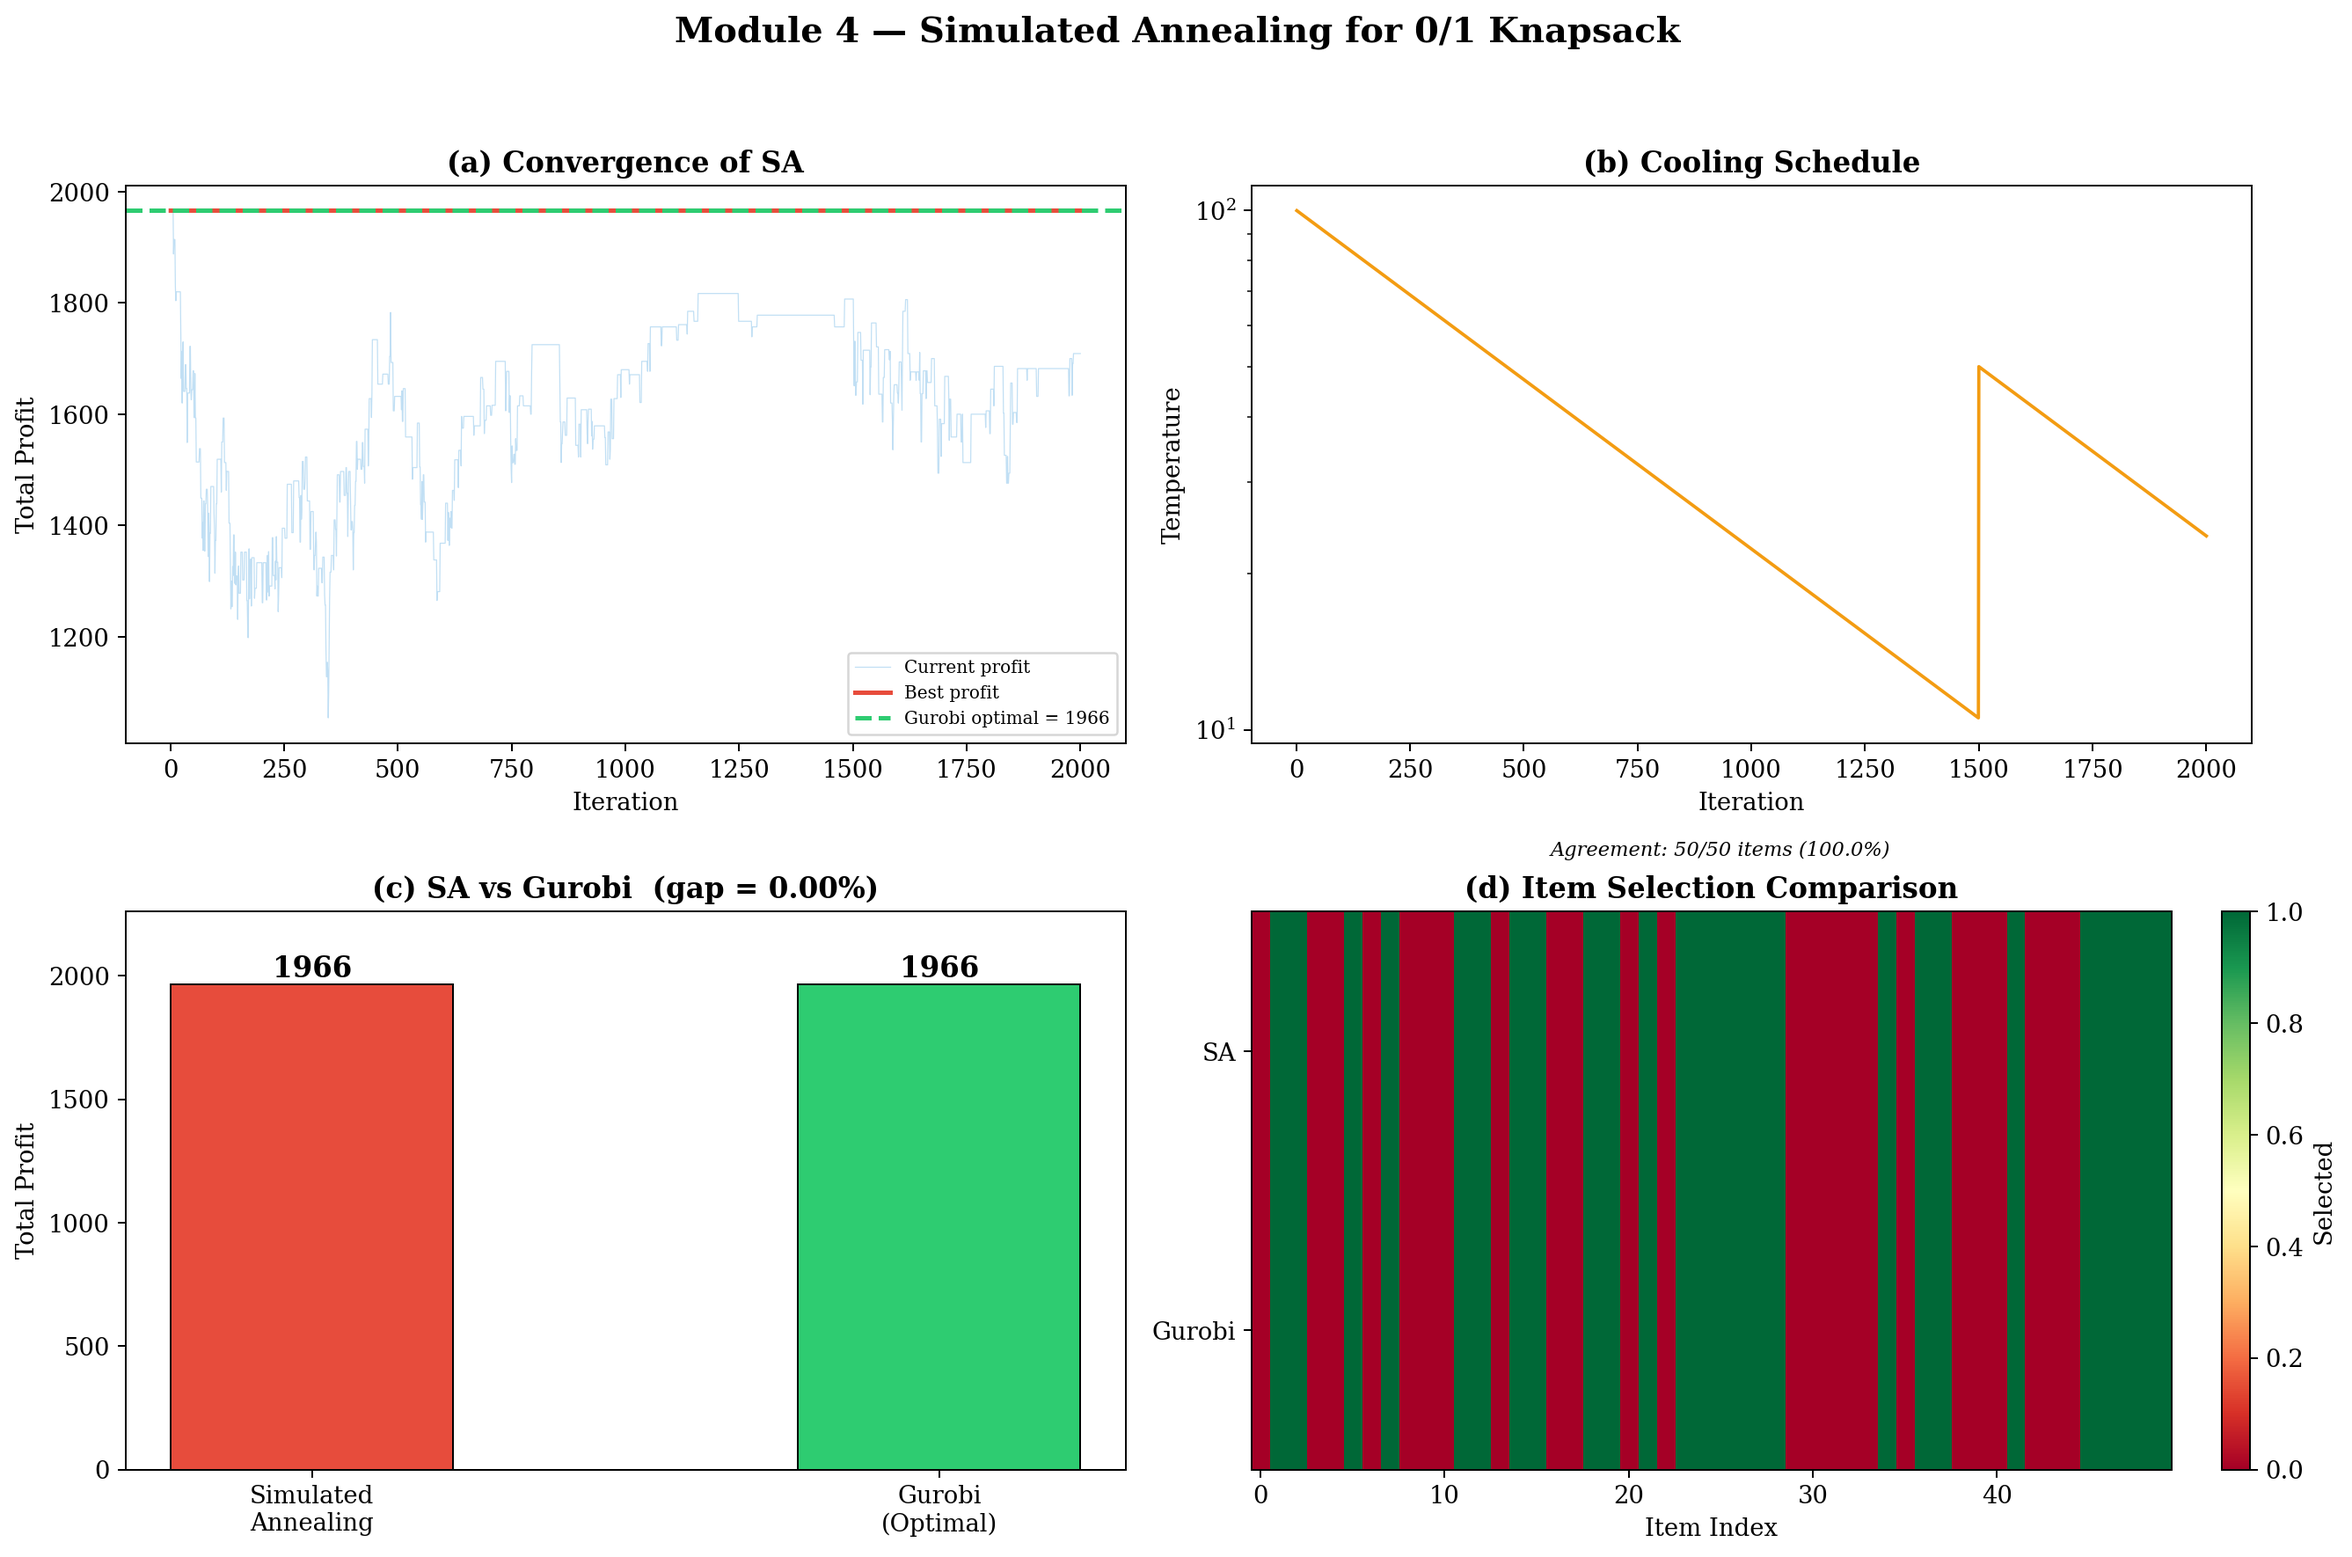
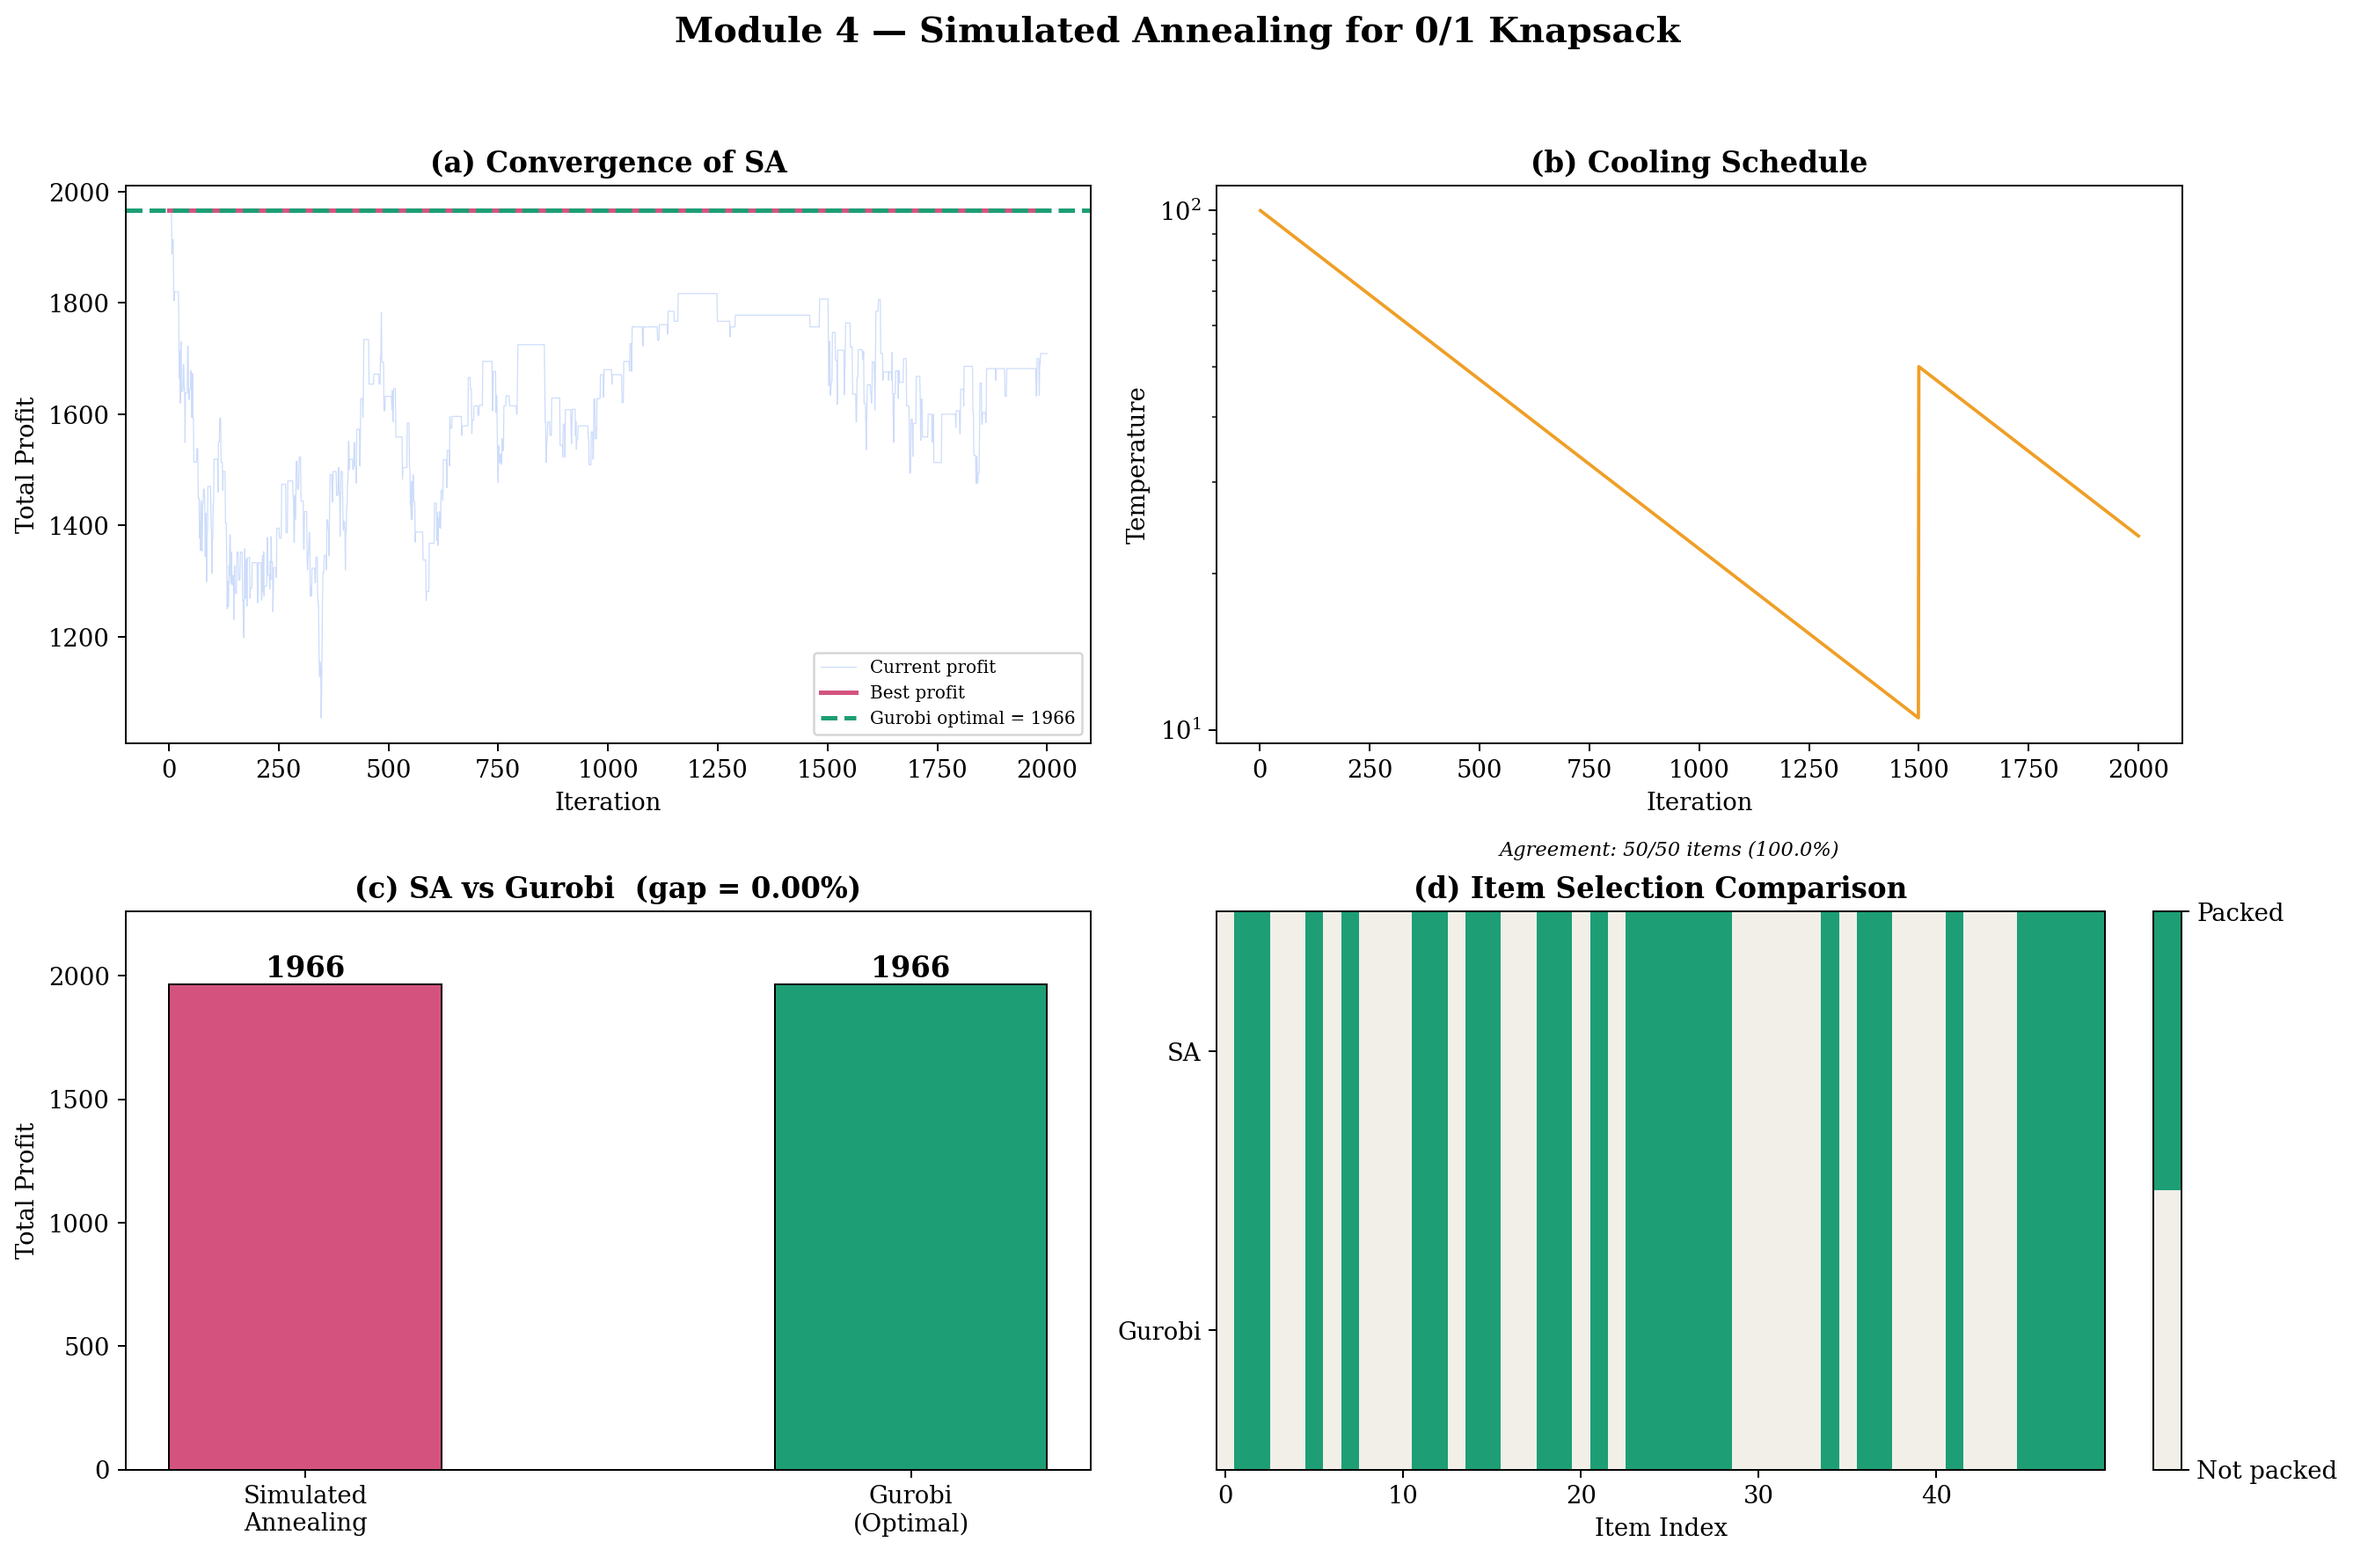
sa figure changed

diff --git a/README.md b/README.md
@@ -296,7 +296,7 @@ total value without exceeding capacity?*
 
 **Decision variables**
 
-- $x_i \in {0, 1}$: equals $1$ if item $i$ is packed, $0$ otherwise.
+- $x_i \in \{0, 1\}$: equals $1$ if item $i$ is packed, $0$ otherwise.
 
 **Model**
 
@@ -304,13 +304,13 @@ $$
 \begin{aligned}
 \max \quad & \sum_{i \in N} v_i\, x_i \\
 \text{s.t.} \quad & \sum_{i \in N} w_i\, x_i \le C \\
-& x_i \in \{0, 1\}, \quad \forall i \in N.
+& x_i \in \{0, 1\}, \quad \forall i \in \mathcal N.
 \end{aligned}
 $$
 
 This is the mixed-integer program that `src/solvers/gurobi_knapsack.py` hands to
 Gurobi. Our SA implementation works on the same decision variables, but it
-**minimises** the negated profit plus a linear penalty for capacity violation,
+**minimizes** the negated profit plus a linear penalty for capacity violation,
 so that the search can temporarily cross infeasible regions between feasible
 basins.
 
